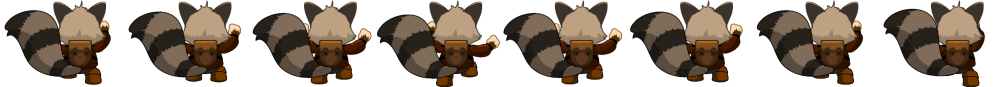
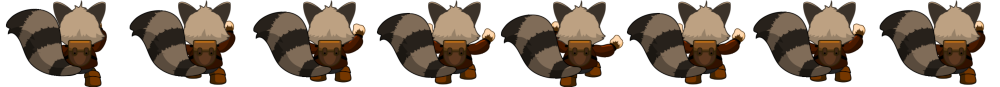
메인 캐릭터 draw 수정

diff --git a/main_character.py b/main_character.py
@@ -1,4 +1,3 @@
-import logo_state
 from pico2d import *
 from character import Character
 from warrior import Warrior
@@ -31,9 +30,8 @@ key_event_table = {
 class IDLE:
     @staticmethod
     def enter(self, event):
-        self.dir_x = 0
-        # self.dir_y = 0
-        pass
+        if self.dir_x != None:
+            self.dir_x = 0
 
     @staticmethod
     def exit(self, event):
@@ -51,22 +49,34 @@ class IDLE:
     @staticmethod
     def draw(self):
         if self.look_at == 1:
-            self.main_idle.clip_draw(0 + self.frame * self.idle_size[0], 0, self.idle_size[0], self.idle_size[1],
-                                     self.m_x, self.m_y, self.idle_size[0], self.idle_size[1])
+            self.idle.clip_draw_to_origin(self.frame * self.idle_size[0], 0,self.idle_size[0], self.idle_size[1],
+                                     self.m_x, self.m_y)
         else:
-            self.main_idle.clip_composite_draw(0 + self.frame * self.idle_size[0], 0,
-                                               self.idle_size[0], self.idle_size[1],
-                                               0, 'h', self.m_x, self.m_y, self.idle_size[0], self.idle_size[1])
+            self.composite_idle.clip_draw_to_origin(self.frame * self.idle_size[0], 0,self.idle_size[0], self.idle_size[1],
+                                     self.m_x, self.m_y)
 
 class RUN:
     @staticmethod
     def enter(self, event):
-        if event == LD or event == RU:
+        if event == LD:
+            if self.dir_x == None:
+                self.dir_x = 0
             self.look_at = -1
             self.dir_x -= 1
-        elif event == RD or event == LU:
+        elif event == RU and self.dir_x != None:
+            self.look_at = -1
+            self.dir_x -= 1
+        elif event == RD:
+            if self.dir_x == None:
+                self.dir_x = 0
             self.look_at = 1
             self.dir_x += 1
+        elif event == LU and self.dir_x != None:
+            self.look_at = 1
+            self.dir_x += 1
+        elif self.dir_x == None:
+            self.dir_x = 0
+            self.change_state(IDLE, None)
 
 
     @staticmethod
@@ -83,21 +93,20 @@ class RUN:
         self.frame = (self.frame + 1) % 8
 
         self.m_x += self.dir_x * 5
-        if self.m_x > 1200:
-            self.m_x = 1200
-        elif self.m_x < 100:
-            self.m_x = 100
+        if self.m_x > 1150:
+            self.m_x = 1150
+        elif self.m_x < 50:
+            self.m_x = 50
         self.set_box()
 
     @staticmethod
     def draw(self):
         if self.look_at == 1:
-            self.main_run.clip_draw(0 + self.frame * self.run_size[0], 0, self.run_size[0], self.run_size[1],
-                                    self.m_x, self.m_y, self.run_size[0], self.run_size[1])
+            self.run.clip_draw_to_origin(self.frame * self.run_size[0], 0, self.run_size[0], self.run_size[1],
+                                    self.m_x, self.m_y)
         else:
-            self.main_run.clip_composite_draw(0 + self.frame * self.run_size[0], 0,
-                                              self.run_size[0], self.run_size[1],
-                                              0, 'h', self.m_x, self.m_y, self.run_size[0], self.run_size[1])
+            self.composite_run.clip_draw_to_origin(self.frame * self.run_size[0], 0, self.run_size[0], self.run_size[1],
+                                    self.m_x, self.m_y)
 
 class HIT:
     @staticmethod
@@ -134,53 +143,60 @@ class HIT:
     @staticmethod
     def draw(self):
         if self.look_at == 1:
-            self.main_hit.clip_draw(0 + self.frame * self.hit_size[0], 0, self.hit_size[0], self.hit_size[1],
-                                    self.m_x, self.m_y + 20, self.hit_size[0], self.hit_size[1])
+            self.hit.clip_draw_to_origin(self.frame * self.hit_size[0], 0, self.hit_size[0], self.hit_size[1],
+                                    self.m_x - 10, self.m_y)
         elif self.look_at == -1:
-            self.main_hit.clip_composite_draw(0 + self.frame * self.hit_size[0], 0,
-                                              self.hit_size[0], self.hit_size[1],
-                                              0, 'h', self.m_x, self.m_y + 20, self.hit_size[0], self.hit_size[1])
+            self.composite_hit.clip_draw_to_origin(self.frame * self.hit_size[0], 0, self.hit_size[0], self.hit_size[1],
+                                    self.m_x - 80, self.m_y)
 
 class CLIMB:
     @staticmethod
     def enter(self, event):
         if event == UD:
+            if self.dir_y == None:
+                self.dir_y = 0
             self.dir_y += 1
-            if self.box[0] > 300 - 70 and self.box[2] < 300 + 70 and self.m_y == 90:
-                self.m_x = 280
+            if (self.box[0] + self.box[2]) / 2 <= 335 and (self.box[0] + self.box[2]) / 2 >= 265 and self.m_y == 40:
+                self.m_x = 300 - 80
                 self.m_y += 5
-            elif self.box[0] > 800 - 70 and self.box[2] < 800 + 70 and self.m_y == 90:
-                self.m_x = 780
+            elif (self.box[0] + self.box[2]) / 2 <= 835 and (self.box[0] + self.box[2]) / 2 >= 765 and self.m_y == 40:
+                self.m_x = 800 - 80
                 self.m_y += 5
             else:
                 self.change_state(self.prev_state)
 
         elif event == DD:
+            if self.dir_y == None:
+                self.dir_y = 0
             self.dir_y -= 1
             print(self.dir_y)
-            if self.box[0] > 300 - 70 and self.box[2] < 300 + 70 and self.m_y == 300:
-                self.m_x = 280
+            if (self.box[0] + self.box[2]) / 2 <= 335 and (self.box[0] + self.box[2]) / 2 >= 265 and self.m_y == 250:
+                self.m_x = 300 - 80
                 self.m_y -= 5
-            elif self.box[0] > 800 - 70 and self.box[2] < 800 + 70 and self.m_y == 300:
-                self.m_x = 780
+            elif (self.box[0] + self.box[2]) / 2 <= 835 and (self.box[0] + self.box[2]) / 2 >= 765 and self.m_y == 250:
+                self.m_x = 800 - 80
                 self.m_y -= 5
             else:
                 self.change_state(self.prev_state)
 
-        elif event == UU:
+        elif event == UU and self.dir_y != None:
             self.dir_y -= 1
             if self.prev_state == CLIMB:
                 pass
             else:
                 self.change_state(self.prev_state)
 
-        elif event == DU:
+        elif event == DU and self.dir_y != None:
             self.dir_y += 1
             print(self.dir_y)
             if self.prev_state == CLIMB:
                 pass
             else:
                 self.change_state(self.prev_state)
+
+        elif event == UU or event == DU:
+            self.dir_y = 0
+            self.change_state(IDLE, None)
 
         elif event == LD or event == RU:
             self.dir_x -= 1
@@ -199,8 +215,8 @@ class CLIMB:
     def do(self):
         self.frame = (self.frame + 1) % 8
         self.m_y += self.dir_y * 5
-        if self.m_y > 300:
-            self.m_y = 300
+        if self.m_y > 250:
+            self.m_y = 250
             if self.dir_x == 0:
                 self.change_state(IDLE, CLIMB)
                 self.set_look()
@@ -209,8 +225,10 @@ class CLIMB:
                 self.set_look()
 
             if self.look_at == -1:
-                self.m_x += 35  # flip x좌표 이미지 보정
-        elif self.m_y < 90:
+                self.m_x += 40  # flip x좌표 이미지 보정
+
+        elif self.m_y < 40:
+            self.m_y = 40
             if self.dir_x == 0:
                 self.change_state(IDLE, CLIMB)
                 self.set_look()
@@ -219,14 +237,15 @@ class CLIMB:
                 self.change_state(RUN, CLIMB)
                 self.set_look()
 
-            self.m_y = 90
             if self.look_at == -1:
-                self.m_x += 35  # flip x좌표 이미지 보정
+                self.m_x += 40  # flip x좌표 이미지 보정
+
+        self.set_box()
 
     @staticmethod
     def draw(self):
-        self.main_climb.clip_draw(0 + self.frame * self.climb_size[0], 0, self.climb_size[0], self.climb_size[1],
-                                  self.m_x, self.m_y, self.climb_size[0], self.climb_size[1])
+        self.climb.clip_draw_to_origin(self.frame * self.climb_size[0], 0, self.climb_size[0], self.climb_size[1],
+                                  self.m_x, self.m_y)
 
 next_state = {
     IDLE: {SPACE: HIT, LD: RUN, LU: RUN, RD: RUN, RU: RUN, UD: CLIMB, DD: CLIMB, UU: CLIMB, DU: CLIMB, KEY1: IDLE,  KEY5: IDLE},
@@ -235,31 +254,35 @@ next_state = {
     CLIMB: {SPACE: CLIMB, LD: CLIMB, LU: CLIMB, RD: CLIMB, RU: CLIMB, UD: CLIMB, DD: CLIMB, UU: CLIMB, DU: CLIMB, KEY1: CLIMB,  KEY5: CLIMB}
 }
 
+
+# [130, 100] 크기 판정
+# 1층 y좌표 40, 2층 y좌표 250
 class MainCharacter(Character):
     def __init__(self):
-        super().__init__(100, 90, 10)
-        self.main_idle = load_image('image/main_idle.png')
-        self.main_run = load_image('image/main_run.png')
-        self.main_hit = load_image('image/main_hit.png')
-        self.main_climb = load_image('image/main_climb.png')
+        super().__init__(50, 40, 10)
+        self.idle = load_image('image/main_idle.png')
+        self.run = load_image('image/main_run.png')
+        self.hit = load_image('image/main_hit.png')
+        self.climb = load_image('image/main_climb.png')
+        self.composite_idle = load_image('image/main_idle_composite.png')
+        self.composite_run = load_image('image/main_run_composite.png')
+        self.composite_hit = load_image('image/main_hit_composite.png')
+
         self.resource_bar = load_image('image/bar.png')
         self.resource = load_image('image/resource.png')
+
         self.idle_size = (124, 95)
         self.run_size = (143, 110)
         self.climb_size = (125, 87)
-        self.hit_size = (215, 168)
-        self.box = [self.m_x, self.m_y, self.m_x + self.idle_size[0]//6, self.m_y + self.idle_size[1]//3]
+        self.hit_size = (216, 168)
+        self.box = [self.m_x, self.m_y, self.m_x + 130, self.m_y + 100]
+
         self.now_resource = 100
         self.max_resource = 300
 
-        self.dir_x = logo_state.dir_x
-        self.dir_y = logo_state.dir_y
+        self.dir_x = None
+        self.dir_y = None
         self.look_at = 1
-        if self.dir_x != 0:
-            if self.dir_x >= 0:
-                self.look_at = 1
-            else:
-                self.look_at = -1
 
         self.event_que = []
         self.cur_state = IDLE
@@ -305,9 +328,9 @@ class MainCharacter(Character):
 
     def set_box(self):
         if self.look_at == 1:
-            self.box = [self.m_x, self.m_y, self.m_x + self.idle_size[0] // 6, self.m_y + self.idle_size[1] // 3]
+            self.box = [self.m_x, self.m_y, self.m_x + 130, self.m_y + 100]
         else:
-            self.box = [self.m_x - self.idle_size[0] // 6, self.m_y, self.m_x, self.m_y - self.idle_size[1] // 3]
+            self.box = [self.m_x, self.m_y, self.m_x + 130, self.m_y + 100]
 
     def get_now_resource(self):
         if self.now_resource < 300:

diff --git a/logo_state.py b/logo_state.py
@@ -4,8 +4,6 @@ import game_framework
 import play_state
 
 image = None
-dir_x = None
-dir_y = None
 logo_Time = 0.0
 
 def enter():
@@ -19,14 +17,13 @@ def exit():
     del image
 
 def update():
-    pass
     # logo time을 계산하고 1초가 넘으면 running을 false로
-    global logo_Time  # ,  running
+    global logo_Time, running
     delay(0.01)
     logo_Time += 0.01
-    if logo_Time >= 0.0: # 로고타임off
+    if logo_Time >= 1.0: # 로고타임off
         logo_Time = 0.0
-        # running = False
+        running = False
         game_framework.change_state(play_state)
 
 def draw():
@@ -36,27 +33,7 @@ def draw():
 
 
 def handle_events():
-    events = get_events()
-    global dir_x, dir_y
-    for event in events:
-        if event.type == SDL_KEYDOWN:
-            if event.key == SDLK_UP:
-                dir_y += 1
-            elif event.key == SDLK_DOWN:
-                dir_y -= 1
-            elif event.key == SDLK_RIGHT:
-                dir_x += 1
-            elif event.key == SDLK_LEFT:
-                dir_x -= 1
-        elif event.type == SDL_KEYUP:
-            if event.key == SDLK_UP:
-                dir_y -= 1
-            elif event.key == SDLK_DOWN:
-                dir_y += 1
-            elif event.key == SDLK_RIGHT:
-                dir_x -= 1
-            elif event.key == SDLK_LEFT:
-                dir_x += 1
+    pass
 
 
 

diff --git a/enemy_warrior.py b/enemy_warrior.py
@@ -62,7 +62,7 @@ class RUN:
     @staticmethod
     def draw(self):
         self.warrior_run.clip_draw_to_origin(self.run_size[0] * self.frame, 0, self.run_size[0], self.run_size[1],
-                                            self.m_x, self.m_y, self.run_size[0], self.run_size[1])
+                                            self.m_x, self.m_y)
 
 
 class HIT:

diff --git a/paladog.py b/paladog.py
@@ -8,5 +8,5 @@ height = 720
 
 pico2d.open_canvas(width, height)
 # game_framework.run(logo_state)
-game_framework.run(logo_state)
+game_framework.run(play_state)
 pico2d.close_canvas()
